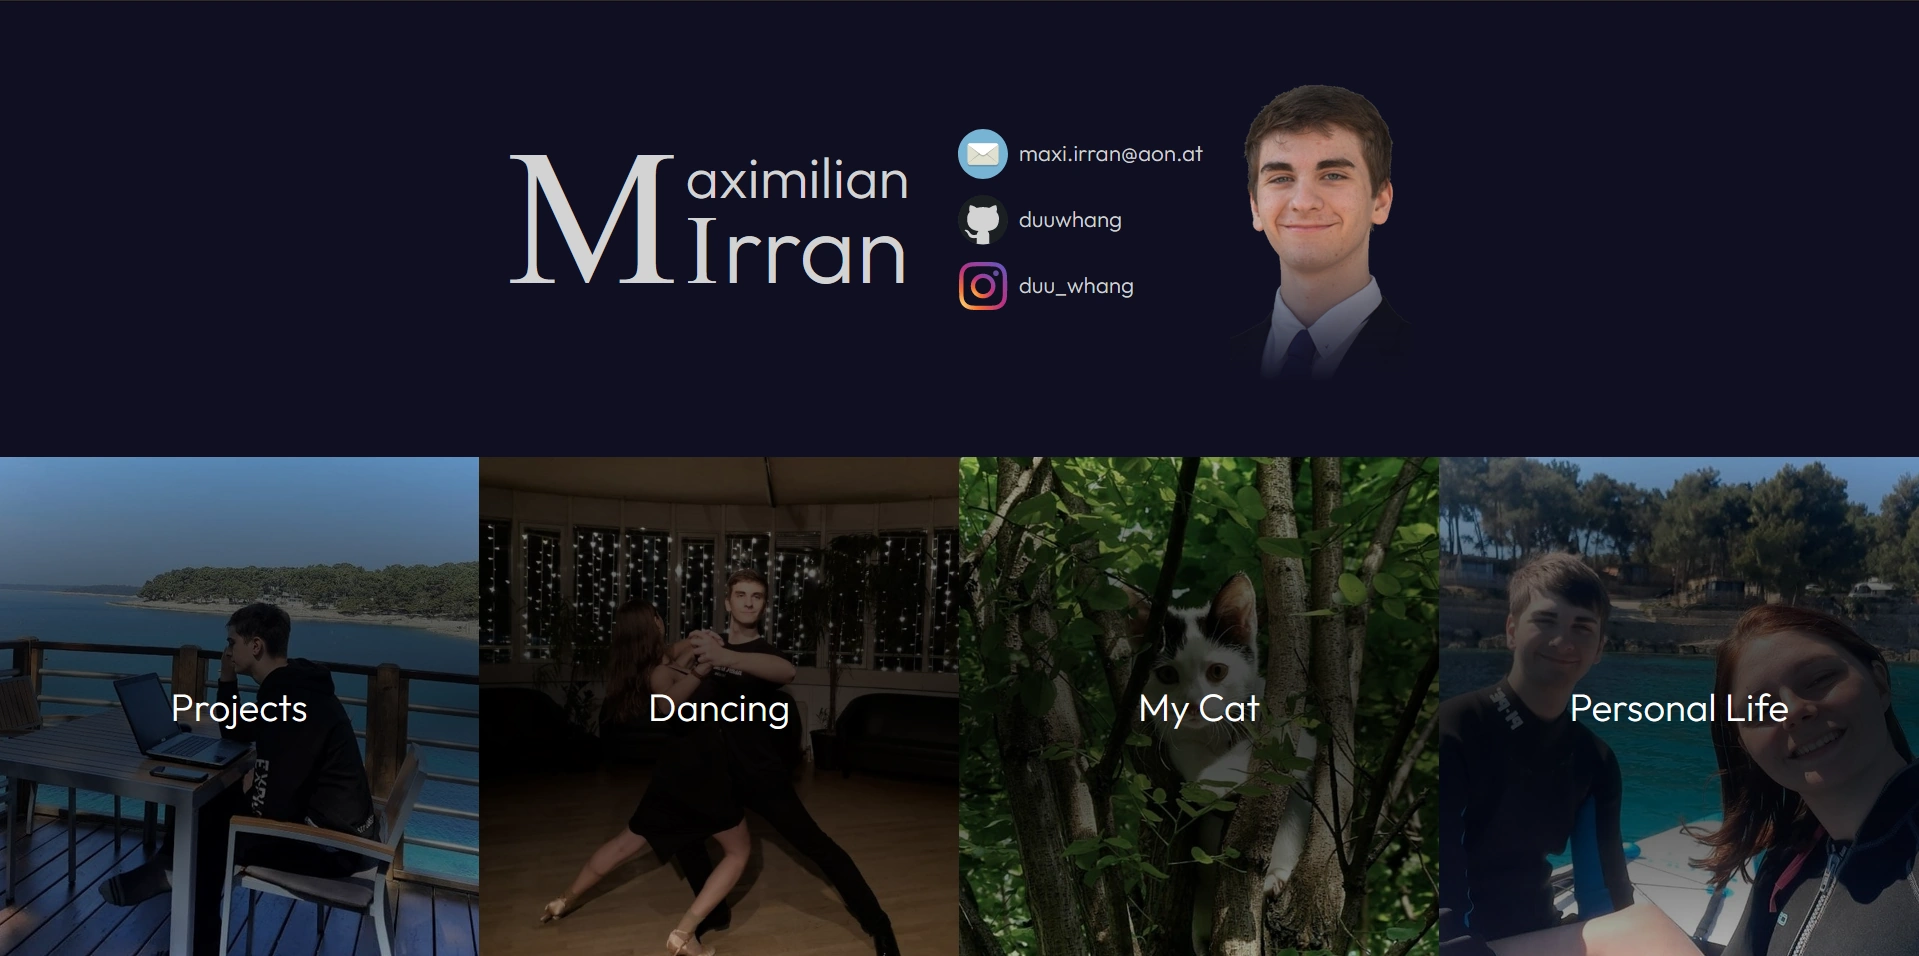
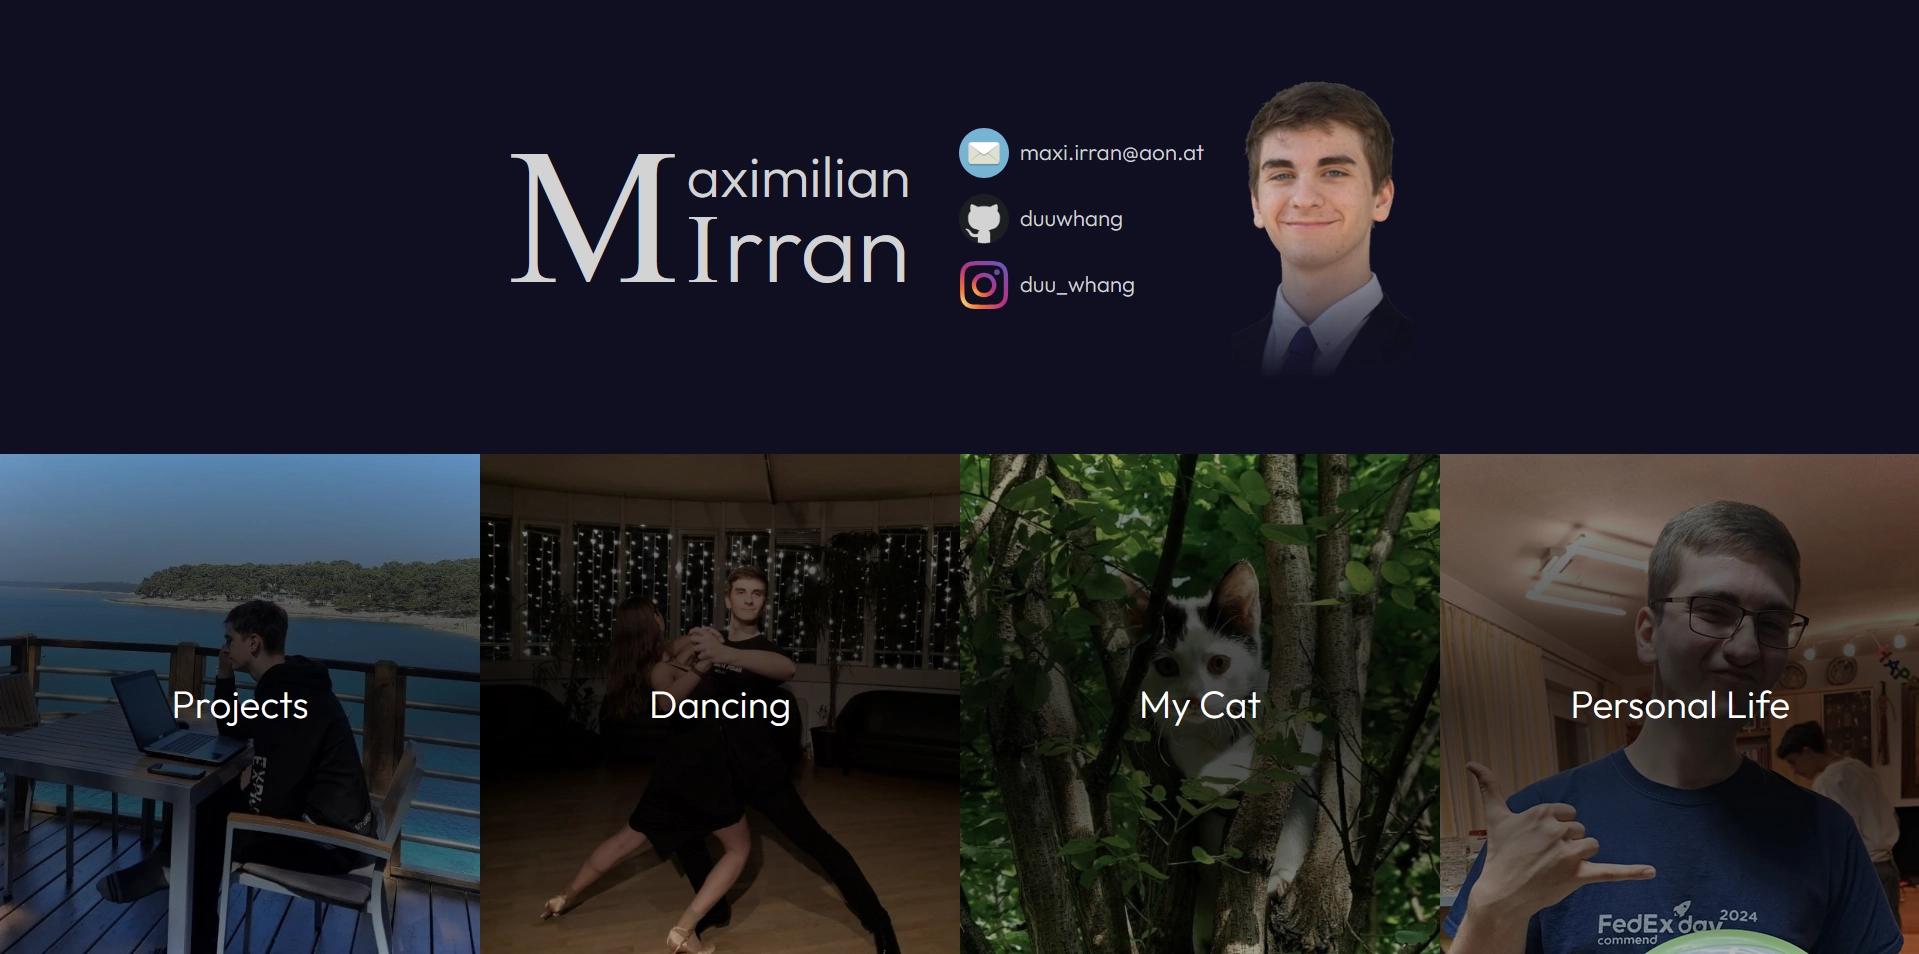
update readme

diff --git a/index.html b/index.html
@@ -273,7 +273,7 @@
                 </p>
                 <div class="c1" style="aspect-ratio: 1">
                     <h2>Balls</h2>
-                    Luckily Elena and I shared the desire to dance on every ball we could and so begun the restless ball seasons. You see the austrian ball season streches roughly
+                    Luckily we both shared the desire to dance on every ball we could and so begun the restless ball seasons. You see the austrian ball season streches roughly
                     from january to may. And as opportunities arose to attend some for free or even perform on the dancefloor - we took them all. Sometimes even going on 3 in a
                     single week, dancing late into the night after a school day or after two dancing lessons on the weekend.
                 </div>
@@ -339,9 +339,9 @@
                     <h2>Mio</h2>
                     is a cute black and white housecat with big ears. He is currently
                     <span id="age-mio">? Years</span>
-                    old and the most curious tom cat you can imagine. Although him being an apartment cat, I take him on occasional walks in the park and we have cat
-                    proofed the 2 balconies, so he can enjoy the fresh air whenever he wants. It was not always easy raising a hyperactive cat in a small apartment as he woke us every
-                    morning at 5 am, biting our feet. He destroyed everything with his small teeth and would tear apart anything he found including some of Elena's favorite
+                    old and the most curious tom cat you can imagine. Although him being an apartment cat, I take him on occasional walks in the park and I have cat
+                    proofed the balcony, so he can enjoy the fresh air whenever he wants. It was not always easy raising a hyperactive cat in a small apartment as he woke me up every
+                    morning at 5 am, biting my feet. He destroyed everything with his small teeth and would tear apart anything he found including some
                     jackets. As he grew up, he started getting calmer, although he still chases his favorite toy mouses at hyperspeed through the apartment.
                 </div>
                 <p class="c2 r2" style="aspect-ratio: 1">
@@ -370,8 +370,8 @@
                 </p>
                 <div class="c2 r1">
                     <h2>Story</h2>
-                    My girlfriend's family found Mio abandoned on a parking spot - he was starving and not older than 3 months. They took him in but weren't able to keep him at
-                    their place and they didn't find someone else to take him in. I have always wanted to have a cat ever since I was a kid so my girlfriend and I decided to adopt
+                    Mio was found abandoned on a parking spot - he was starving and not older than 3 months. The family that found him, took him in but weren't able to keep him at
+                    their place and they didn't find someone else to take him in. I have always wanted to have a cat ever since I was a kid so I decided to adopt
                     him. Just a few weeks later he sat in our apartment - the cutest, most playful and affectionate cat in the whole world.
                 </div>
                 <div class="c1" style="aspect-ratio: 1">
@@ -403,7 +403,7 @@
                     <img src="assets/img/my-cat/catwalk.webp" alt="Mio's catwalk" loading="lazy" />
                 </p>
                 <p class="c1" style="aspect-ratio: 1">
-                    <img src="assets/img/my-cat/belly.webp" alt="On his back getting belly rubs" loading="lazy" />
+                    <img src="assets/img/my-cat/-.webp" alt="-" loading="lazy" />
                 </p>
             </div>
 
@@ -415,26 +415,20 @@
                     <h2>About Me</h2>
                     Hi, I am
                     <span id="age-max">? Years</span> old and graduated from the HTL Salzburg in may 2021. I was born and raised in Salzburg and currently have my own flat,
-                    although I am not planning on staying here. Software development, gaming and repairing mobile phones myself count to my hobbies. After having tried out many
-                    different sports I stuck with dancing where I met my dancing partner and girlfriend Elena.
+                    although I am not planning on staying here. Software development, gaming, dancing, calistenics and repairing mobile phones myself count to my hobbies.
                 </div>
                 <p class="c1 r2">
-                    <img src="assets/img/personal-life/ellie.webp" alt="Girlfriend" loading="lazy" />
+                    <img src="assets/img/personal-life/diploma.webp" alt="-" loading="lazy" />
                 </p>
                 <div class="c1" style="aspect-ratio: 1">
-                    <h2>Elena</h2>
-                    My beautiful girlfriend. She is currently
-                    <span id="age-elena">? Years</span>
-                    old and means the world to me. We met
-                    <span id="age-dance">? Years</span>
-                    ago in a dance class and it didn't take long until we became dance partners, opening balls and dancing in formations. After 2 years we started our relationship
-                    in november 2020. She graduated in may 2020 and currently visits university, studying graphic design. Elena loves crafting, drawing and reading.
+                    <h2>-</h2>
+                    -
                 </div>
                 <p class="c1" style="aspect-ratio: 1">
                     <img src="assets/img/personal-life/portrait.webp" alt="Portrait of me" loading="lazy" />
                 </p>
                 <p class="c1" style="aspect-ratio: 1">
-                    <img src="assets/img/personal-life/couple.webp" alt="Together Selfie" loading="lazy" />
+                    <img src="assets/img/personal-life/portrait.webp" alt="-" loading="lazy" />
                 </p>
                 <div class="c1" style="aspect-ratio: 1">
                     <h2>Friends</h2>
@@ -443,49 +437,13 @@
                     and then.
                 </div>
                 <p class="c1" style="aspect-ratio: 1">
-                    <img src="assets/img/personal-life/friends.webp" alt="Happy with friends" loading="lazy" />
+                    <img src="assets/img/personal-life/christmas.webp" alt="Chistmas with friends" loading="lazy" />
                 </p>
                 <p class="c1" style="aspect-ratio: 1">
                     <img src="assets/img/personal-life/illusion.webp" alt="Posing with friends in Illusion Room" loading="lazy" />
                 </p>
                 <p class="c1" style="aspect-ratio: 1">
                     <img src="assets/img/personal-life/mountain.webp" alt="Posing with friends on a Mountain" loading="lazy" />
-                </p>
-                <div class="c1" style="aspect-ratio: 1">
-                    <h2>Croatia</h2>
-                    The best adventure I have ever been on has to the trip to croatia with Elena and her family. Sleeping in a tiny tent at the rocky beach of a clear water ocean
-                    bay. Watching the stars at night, haggling for fresh fish in the morning and dipping into the cool blue ocean's water at noon. We also went stand up paddling
-                    and did some hiking over the little mountains of Cres.
-                </div>
-                <p class="c1 r2">
-                    <img src="assets/img/personal-life/forest.webp" alt="Me walking thorugh a Forest from behind" loading="lazy" />
-                </p>
-                <p class="c1" style="aspect-ratio: 1">
-                    <img src="assets/img/personal-life/surf.webp" alt="Me standup paddling" loading="lazy" />
-                </p>
-                <p class="c1" style="aspect-ratio: 1">
-                    <img src="assets/img/personal-life/icecream.webp" alt="Icecream and view of a Port" loading="lazy" />
-                </p>
-                <p class="c1" style="aspect-ratio: 1">
-                    <img src="assets/img/personal-life/bay.webp" alt="Bay with clear Water" loading="lazy" />
-                </p>
-                <p class="c2 r1">
-                    <img src="assets/img/personal-life/croatia.webp" alt="Selfie of us at the Sea" loading="lazy" />
-                </p>
-                <div class="c1" style="aspect-ratio: 1">
-                    <h2>Adventure</h2>
-                    I love doing backyard campfires with friends and throwing in any branch I can find. Over the years I have also been on the occasional snowboard trip, though I
-                    wouldn't say I'm great. My girlfriend and I love carving pumpkins and building snow animals together. The adventures I'm most proud of are everything I've done
-                    in the urbex category.
-                </div>
-                <p class="c1" style="aspect-ratio: 1">
-                    <img src="assets/img/personal-life/campfire.webp" alt="Campfire with Break on a Stick" loading="lazy" />
-                </p>
-                <p class="c1" style="aspect-ratio: 1">
-                    <img src="assets/img/personal-life/pumpkin.webp" alt="Lit up Pumpkins" loading="lazy" />
-                </p>
-                <p class="c1" style="aspect-ratio: 1">
-                    <img src="assets/img/personal-life/snow-elephant.webp" alt="Me sitting on a snow-elephant" loading="lazy" />
                 </p>
                 <div class="c1" style="aspect-ratio: 1">
                     <h2>Urban Exploration</h2>
@@ -503,18 +461,46 @@
                     <img src="assets/img/personal-life/gaisberg.webp" alt="Selfie overlooking city" loading="lazy" />
                 </p>
                 <div class="c1" style="aspect-ratio: 1">
-                    <h2>Military</h2>
-                    As an austrian citizen, I absolved my 6 month mandatory military service in 2021. Although not having had a good time at all there and not really accomplishing
-                    anything nor earning any savings during this time period, my relationship with my girlfriend grew a lot stronger.
+                    <h2>-</h2>
+                    -
                 </div>
                 <p class="c1" style="aspect-ratio: 1">
-                    <img src="assets/img/personal-life/military.webp" alt="Military Reunion Hug" loading="lazy" />
+                    <img src="assets/img/personal-life/surf.webp" alt="Me standup paddling" loading="lazy" />
+                </p>
+                <p class="c1 r2">
+                    <img src="assets/img/personal-life/forest.webp" alt="Me walking thorugh a Forest from behind" loading="lazy" />
+                </p>
+                <p class="c1" style="aspect-ratio: 1">
+                    <img src="assets/img/personal-life/bay.webp" alt="Bay with clear Water" loading="lazy" />
+                </p>
+                <p class="c2 r1">
+                    <img src="assets/img/personal-life/-.webp" alt="-" loading="lazy" />
+                </p>
+                <div class="c1" style="aspect-ratio: 1">
+                    <h2>Adventure</h2>
+                    I love doing backyard campfires with friends and throwing in any branch I can find. Over the years I have also been on the occasional snowboard trip, though I
+                    wouldn't say I'm great. I love carving pumpkins and building snow animals. The adventures I'm most proud of are everything I've done
+                    in the urbex category.
+                </div>
+                <p class="c1" style="aspect-ratio: 1">
+                    <img src="assets/img/personal-life/campfire.webp" alt="Campfire with Break on a Stick" loading="lazy" />
+                </p>
+                <p class="c1" style="aspect-ratio: 1">
+                    <img src="assets/img/personal-life/pumpkin.webp" alt="Lit up Pumpkins" loading="lazy" />
+                </p>
+                <p class="c1" style="aspect-ratio: 1">
+                    <img src="assets/img/personal-life/snow-elephant.webp" alt="Me sitting on a snow-elephant" loading="lazy" />
+                </p>
+                <div class="c1" style="aspect-ratio: 1">
+                    <h2>Military</h2>
+                    As an austrian citizen, I absolved my 6 month mandatory military service in 2021. I was not having had a good time at all there and not really accomplishing
+                    anything nor earning any savings during this time period... But I guess it's behind me now.
+                </div>
+                <p class="c1" style="aspect-ratio: 1">
+                    <img src="assets/img/personal-life/march.webp" alt="Marching in Formation" loading="lazy" />
                 </p>
                 <p class="c1" style="aspect-ratio: 1">
                     <img src="assets/img/personal-life/doggo.webp" alt="Petting doggo" loading="lazy" />
-                </p>
-                <p class="c1" style="aspect-ratio: 1">
-                    <img src="assets/img/personal-life/march.webp" alt="Marching in Formation" loading="lazy" />
                 </p>
             </div>
         </section>

diff --git a/css/main.scss b/css/main.scss
@@ -148,7 +148,8 @@ section {
             }
 
             .my-cat-img {
-                background-image: radial-gradient(ellipse at right, var(--contrast), transparent), radial-gradient(ellipse at left, var(--contrast), transparent), url("../assets/img/hero/my-cat.webp");
+                background-image: radial-gradient(ellipse at right, var(--contrast), transparent), radial-gradient(ellipse at left, var(--contrast), transparent),
+                    url("../assets/img/hero/my-cat.webp");
             }
 
             .personal-life-img {

diff --git a/ignore/script.js b/ignore/script.js
@@ -89,7 +89,6 @@ function scrollFunction() {
 }
 
 calcAge(new Date(2001, 5, 20), "age-max");
-calcAge(new Date(2002, 5, 22), "age-elena");
 calcAge(new Date(2021, 3, 21), "age-mio");
 calcAge(new Date(2018, 10, 21), "age-dance");
 
